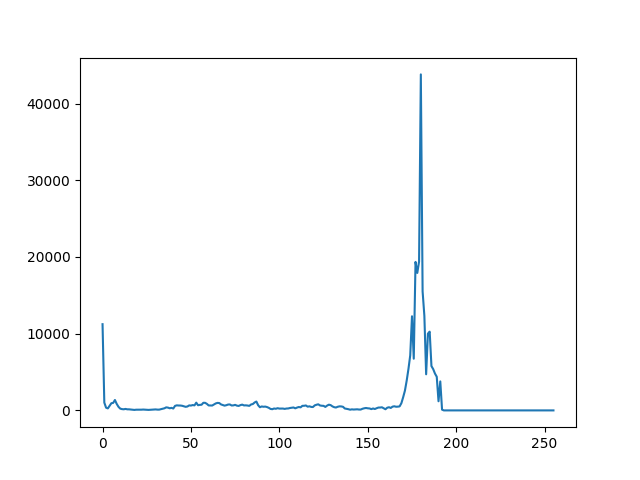
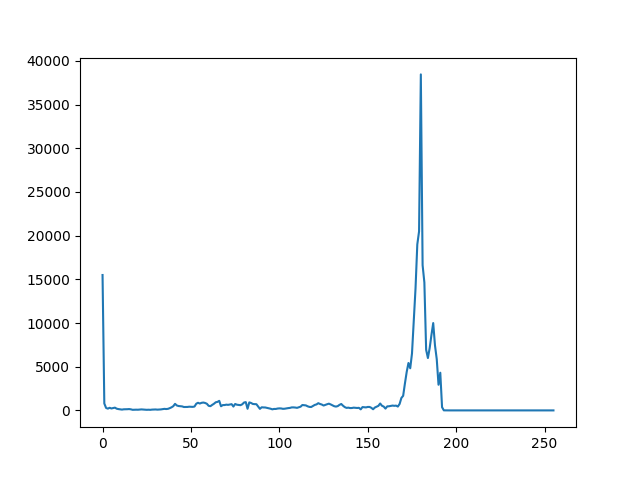
실행시 영상 멈춤 / q버튼 입력시 종료 안되는 부분 수정

diff --git a/src/line_tracer.py b/src/line_tracer.py
@@ -9,27 +9,13 @@ cap = cv2.VideoCapture(0)               # 0번 카메라 장치 연결 ---①
 cap.set(cv2.CAP_PROP_FRAME_WIDTH, 640)  # width
 cap.set(cv2.CAP_PROP_FRAME_HEIGHT, 480) # height
 
+plt.ion()
+fig, ax = plt.subplots()
 
 if cap.isOpened():                      # 캡쳐 객체 연결 확인
     while True:
         ret, img = cap.read()           # 다음 프레임 읽기
-
-         # 색공간 변환
-        gray_img = cv2.cvtColor(img, cv2.COLOR_BGR2GRAY)
-        hsv_img = cv2.cvtColor(img, cv2.COLOR_BGR2HSV)
-
-        # 결과 출력
-        cv2.imshow('Original(BGR)', img)
-        cv2.imshow('HSV', hsv_img)
-        cv2.imshow('Gray', gray_img)
-
-        hist = cv2.calcHist([gray_img], [0], None, [256], [0, 256])
-        plt.plot(hist)
-
-        print("hist.shape : ", hist.shape)
-        print("hist.sum() : ", hist.sum(), "img:shape : ",gray_img.shape)
-        plt.show()
-
+        
         if ret:
             # q 입력 받으면 종료
             key = cv2.waitKey(1) & 0xFF
@@ -39,6 +25,20 @@ if cap.isOpened():                      # 캡쳐 객체 연결 확인
         else:
             print('no frame')
             break
+        
+        # 색공간 변환
+        gray_img = cv2.cvtColor(img, cv2.COLOR_BGR2GRAY)
+        hsv_img = cv2.cvtColor(img, cv2.COLOR_BGR2HSV)
+
+        # 결과 출력
+        cv2.imshow('Original(BGR)', img)
+        cv2.imshow('HSV', hsv_img)
+        cv2.imshow('Gray', gray_img)
+
+        hist = cv2.calcHist([gray_img], [0], None, [256], [0, 256])
+        ax.clear()
+        ax.plot(hist)
+        plt.pause(0.01)
 else:
     print("can't open camera.")
 
